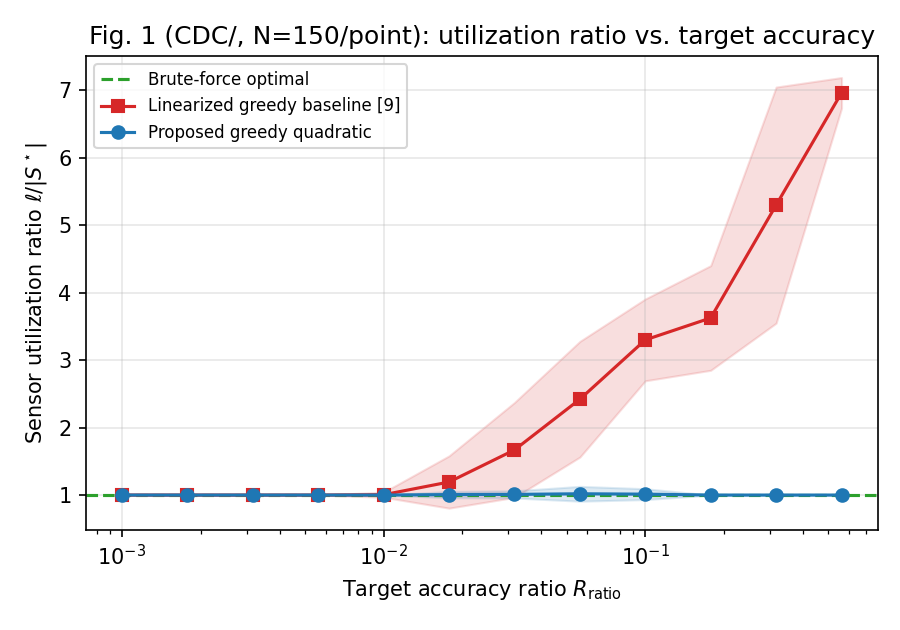
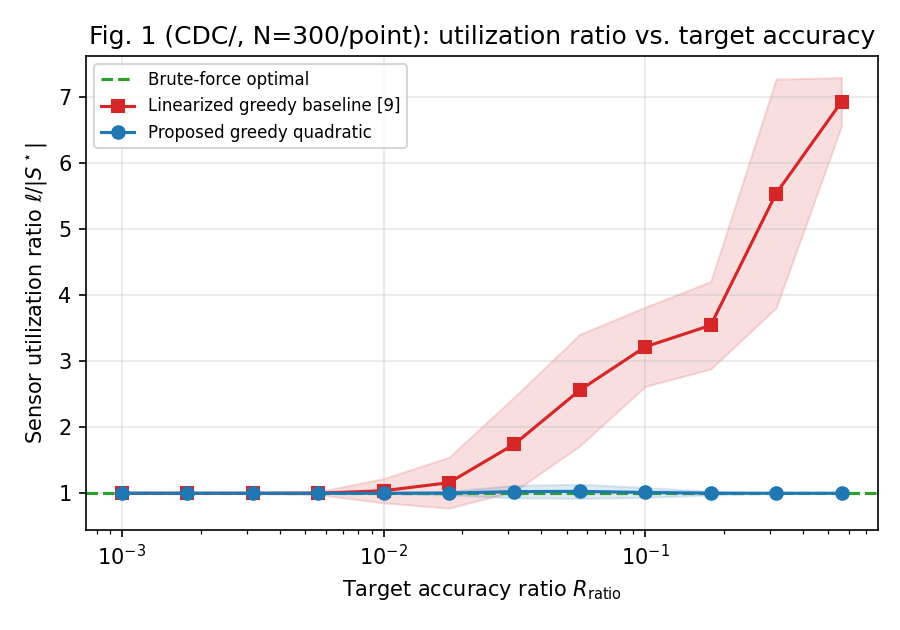
fixed bug in cdc code

diff --git a/LQG_QKF/CDCRevised/mse_vs_bound.py b/LQG_QKF/CDCRevised/mse_vs_bound.py
@@ -1,0 +1,186 @@
+"""
+Empirical check for Remark 1 (CDC2026.tex, CDCRevised/): "h(S)<=R is necessary, not sufficient" and
+"the gap between h(S) and the realized MSE is governed by the tightness of the Van Trees bound, which
+is asymptotically exact in high-SNR ... regimes."
+
+This is a standalone supplementary check, NOT wired into the paper (no figure reference was added to
+CDC2026.tex) -- see Timeline.md for why. It answers two questions about the fixed set S = full ground
+set G under the model of sensor_selection_sim.py (y_i = 0.5 x^T M^(i) x + c_i^T x + v_i):
+
+  1. Necessity: does an actual estimator's empirical MSE ever fall BELOW Tr(B_S)? (It shouldn't --
+     Proposition 2 says Tr(B_S) lower-bounds every estimator's MSE.)
+  2. Asymptotic tightness: does the gap between empirical MSE and Tr(B_S) shrink as measurement noise
+     shrinks (SNR grows)?
+
+Estimator used: the MAP estimate under the true (Gaussian prior + Gaussian-noise quadratic-likelihood)
+model, computed by directly minimizing the negative log-posterior
+    J(x) = 0.5 x^T Ix x + sum_i (1/(2 sigma_i^2)) (y_i - 0.5 x^T M^(i) x - c_i^T x)^2
+via Newton-CG with an analytic gradient. This is the best-case estimator for this exact model (not an
+EKF/UKF approximation), so it's the right choice for testing the bound itself rather than any particular
+filter's suboptimality.
+"""
+
+import os
+import numpy as np
+from scipy.optimize import minimize
+import matplotlib
+matplotlib.use('Agg')
+import matplotlib.pyplot as plt
+from tqdm import tqdm
+
+from sensor_selection_sim import (
+    generate_spd, generate_M_stack, generate_C, per_sensor_info,
+    F_of, perf_dir,
+)
+
+N_STATE = 4
+M_SENSORS = 7
+SIGMA0_SCALE = 10.0
+M_SCALE_RANGE = (1e-2, 1.0)
+C_SCALE = 1.0
+N_TRIALS = 300
+NOISE_SCALES = np.logspace(-2, 4, 13)   # high-SNR (1e-2) -> low-SNR (1e4)
+
+
+def neg_log_post_and_grad(x, y, M, C, sigma2_vec, Ix):
+    val = 0.5 * x @ Ix @ x
+    grad = Ix @ x
+    for i in range(len(sigma2_vec)):
+        Mx = M[i] @ x
+        pred = 0.5 * x @ Mx + C[i] @ x
+        r = y[i] - pred
+        val += (r ** 2) / (2.0 * sigma2_vec[i])
+        grad -= (r / sigma2_vec[i]) * (Mx + C[i])
+    return val, grad
+
+
+def linearized_start(y, C, sigma2_vec, Ix):
+    """Closed-form MAP estimate under the linearized (quadratic term dropped) model -- used as one of
+    several optimizer starting points, since the true posterior is a non-convex quartic in x and a
+    single fixed start (e.g. x0=0) can get trapped in a local minimum far from the true optimum."""
+    A = Ix.copy()
+    b = np.zeros(Ix.shape[0])
+    for i in range(len(sigma2_vec)):
+        A = A + np.outer(C[i], C[i]) / sigma2_vec[i]
+        b = b + C[i] * y[i] / sigma2_vec[i]
+    return np.linalg.solve(A, b)
+
+
+def map_estimate(y, M, C, sigma2_vec, Ix, rng, n_restarts=6):
+    """Multi-start Newton-CG: the negative log-posterior is a non-convex quartic in x (quadratic
+    measurement model), so a single fixed start can converge to a local, non-global minimum. Try the
+    linearized closed-form start, x0=0, and several random perturbations around the linearized start;
+    keep whichever converges to the lowest objective value."""
+    n = Ix.shape[0]
+    x_lin = linearized_start(y, C, sigma2_vec, Ix)
+    starts = [x_lin, np.zeros(n)]
+    for _ in range(n_restarts - len(starts)):
+        starts.append(x_lin + rng.normal(scale=1.0, size=n))
+
+    best_val, best_x = np.inf, None
+    for x0 in starts:
+        res = minimize(
+            neg_log_post_and_grad, x0, args=(y, M, C, sigma2_vec, Ix),
+            jac=True, method='Newton-CG',
+            options={'xtol': 1e-10, 'maxiter': 200},
+        )
+        if res.fun < best_val:
+            best_val, best_x = res.fun, res.x
+    return best_x
+
+
+def run_noise_level(noise_scale, seed):
+    rng = np.random.default_rng(seed)
+    np.random.seed(seed)
+    P = np.eye(N_STATE) * SIGMA0_SCALE
+    Ix = np.linalg.inv(P)
+    M = generate_M_stack(M_SENSORS, N_STATE, *M_SCALE_RANGE)
+    C = generate_C(M_SENSORS, N_STATE, C_SCALE)
+    sigma2_vec = np.full(M_SENSORS, noise_scale)
+
+    Ii_list, ci_list = per_sensor_info(M, C, P, sigma2_vec)
+    F_full = F_of(list(range(M_SENSORS)), Ix, Ii_list)
+    B_S = np.linalg.inv(F_full)
+    bound = float(np.trace(B_S))
+
+    sq_errors = []
+    for t in range(N_TRIALS):
+        x_true = rng.multivariate_normal(np.zeros(N_STATE), P)
+        y = np.zeros(M_SENSORS)
+        for i in range(M_SENSORS):
+            v = rng.normal(0.0, np.sqrt(sigma2_vec[i]))
+            y[i] = 0.5 * x_true @ M[i] @ x_true + C[i] @ x_true + v
+        x_hat = map_estimate(y, M, C, sigma2_vec, Ix, rng)
+        sq_errors.append(np.sum((x_hat - x_true) ** 2))
+
+    return bound, np.array(sq_errors)
+
+
+def run_sweep():
+    bounds, all_errors = [], []
+    rng = np.random.default_rng(42)
+    for noise_scale in tqdm(NOISE_SCALES, desc="MSE-vs-bound sweep"):
+        seed = int(rng.integers(0, 2**31 - 1))
+        bound, sq_errors = run_noise_level(noise_scale, seed)
+        bounds.append(bound)
+        all_errors.append(sq_errors)
+    return np.array(bounds), all_errors
+
+
+# A trial counts as a "MAP failure" (converged to a spurious local optimum of the non-convex quartic
+# posterior, not a bound violation) if its squared error is a large outlier relative to Tr(B_S) --
+# see Timeline.md for the diagnostic that established these are genuine local optima (near-zero
+# gradient, lower objective than at x_true), not unconverged Newton-CG iterations.
+FAILURE_THRESHOLD = 0.5  # squared-error cutoff in x-units (P has diagonal 10, so this is a generous cutoff)
+
+
+def make_plot(bounds, all_errors):
+    medians = np.array([np.median(e) for e in all_errors])
+    lo = np.array([np.percentile(e, 25) for e in all_errors])
+    hi = np.array([np.percentile(e, 75) for e in all_errors])
+
+    fig, axes = plt.subplots(1, 2, figsize=(10, 4.2))
+
+    ax = axes[0]
+    ax.plot(NOISE_SCALES, bounds, color='#ff7f0e', marker='^', label=r'Van Trees bound $\mathrm{Tr}(B_S)$')
+    ax.plot(NOISE_SCALES, medians, color='#1f77b4', marker='o', label='Median empirical SE (MAP estimator)')
+    ax.fill_between(NOISE_SCALES, lo, hi, color='#1f77b4', alpha=0.15, label='IQR (25th-75th pct.)')
+    ax.set_xscale('log')
+    ax.set_yscale('log')
+    ax.set_xlabel(r'Measurement-noise scale $\sigma^2$')
+    ax.set_ylabel('Squared error')
+    ax.set_title('Bound vs. achieved error (median), S = G', fontsize=9)
+    ax.legend(fontsize=7)
+    ax.grid(alpha=0.3)
+
+    ax = axes[1]
+    ratio = medians / bounds
+    ax.plot(NOISE_SCALES, ratio, color='#2ca02c', marker='s')
+    ax.axhline(1.0, color='gray', linestyle='--', linewidth=1)
+    ax.set_xscale('log')
+    ax.set_yscale('log')
+    ax.set_xlabel(r'Measurement-noise scale $\sigma^2$')
+    ax.set_ylabel('Median SE / Tr(B_S)')
+    ax.set_title('Tightness ratio (1.0 = exact)', fontsize=9)
+    ax.grid(alpha=0.3)
+
+    fig.suptitle(f'Remark 1 check (CDCRevised/, N={N_TRIALS}/point, MAP estimator, S=G, median-based)')
+    fig.tight_layout()
+    fig.savefig(perf_dir + 'remark1_mse_vs_bound.png', dpi=150)
+    plt.close(fig)
+    print(f"Saved {perf_dir}remark1_mse_vs_bound.png")
+
+
+if __name__ == "__main__":
+    bounds, all_errors = run_sweep()
+    make_plot(bounds, all_errors)
+
+    medians = np.array([np.median(e) for e in all_errors])
+    means = np.array([np.mean(e) for e in all_errors])
+    fail_frac = np.array([np.mean(e > FAILURE_THRESHOLD) for e in all_errors])
+    violations = int(np.sum(medians < bounds))
+    print(f"\nNecessity check (median): median SE < Tr(B_S) in {violations}/{len(NOISE_SCALES)} noise levels "
+          f"(should be 0).")
+    print("noise_scale, bound, median_SE, mean_SE, median/bound, MAP_failure_frac(SE>0.5)")
+    for ns, b, med, mn, ff in zip(NOISE_SCALES, bounds, medians, means, fail_frac):
+        print(f"{ns:.4g}, {b:.6g}, {med:.6g}, {mn:.6g}, {med/b:.4f}, {ff:.3f}")

diff --git a/LQG_QKF/CDCRevised/CDC2026.tex b/LQG_QKF/CDCRevised/CDC2026.tex
@@ -495,11 +495,11 @@ In Fig.~1, we evaluate the performance-constrained measurement-selection framewo
     \label{fig:mainfig}
 \end{figure}
 
-To evaluate the supermodularity-ratio analysis in Theorem~2, Fig.~2 compares the empirical supermodularity ratio with the proposed lower bound under two parameter sweeps using Monte Carlo simulations. Here, we fix $R_{\mathrm{ratio}}=0.01$ and keep the other parameters unchanged. We compute the empirical supermodularity ratio $\gamma_h$, the proposed bound from Theorem~2 (orange), and the bound from~\cite{c19} (green). The plotted curves show the median across valid trials, and the shaded regions indicate the empirical variance range. In the left panel, we vary the scale of the linear measurement term over $[10^{-2}, 10]$ while keeping the other parameters fixed. As the linear-term scale increases, the observation model moves farther from the restrictive pure-quadratic setting considered in previous work. %TODO(pass-2, CDCRevised variant): the sentences below describe the ORIGINAL (pre-Woodbury-swap) Fig. 2 and have not been re-verified against the new bound -- do not treat as established until Fig. 2 is regenerated for this variant. The empirical supermodularity ratio remains above the proposed lower bound across the full sweep, confirming that the proposed bound serves as a valid conservative certificate. Unlike the previous bound, the proposed analysis holds regardless of the linear term or the rank of $M^{(i)}$ by construction (it never isolates a per-sensor $c_j$ term), and thus remains applicable to the broader mixed linear-quadratic model.
+To evaluate the supermodularity-ratio analysis in Theorem~2, Fig.~2 compares the empirical supermodularity ratio with the proposed lower bound under two parameter sweeps using Monte Carlo simulations. Here, we fix $R_{\mathrm{ratio}}=0.01$ and keep the other parameters unchanged. We compute the empirical supermodularity ratio $\gamma_h$, the proposed bound from Theorem~2 (orange), and the bound from~\cite{c19} (green). The plotted curves show the median across valid trials, and the shaded regions indicate the empirical variance range. In the left panel, we vary the scale of the linear measurement term over $[10^{-2}, 10]$ while keeping the other parameters fixed. As the linear-term scale increases, the observation model moves farther from the restrictive pure-quadratic setting considered in previous work. The empirical supermodularity ratio remains above the proposed lower bound across the full sweep, confirming that the proposed bound serves as a valid conservative certificate. Unlike the previous bound, the proposed analysis holds regardless of the linear term or the rank of $M^{(i)}$ by construction (it never isolates a per-sensor $c_j$ term), and thus remains applicable to the broader mixed linear-quadratic model.
 
 
 
-In the right panel, we evaluate the proposed lower bound under a sweep of the measurement-noise scale. We vary the measurement-noise scale over $[10^{0},10^{4}]$ using a fixed nonzero linear-term scale $10$, multiplicated with randomly generated base $C_0$ and the same remaining parameters. %TODO(pass-2, CDCRevised variant): the tightness/competitiveness claims below are UNVERIFIED for the Woodbury bound and must be re-checked against regenerated data before this paragraph is finalized -- see Timeline.md. The empirical supermodularity ratio stays above both theoretical curves across the full sweep, again confirming that the proposed bound is a valid conservative certificate. Moreover, the proposed bound is slightly tighter than, or nearly identical to, the baseline bound over the tested noise range. This suggests that the broader applicability of the proposed analysis does not come at the expense of weaker performance under noise variation, and that the proposed bound remains competitive with the previous result.
+In the right panel, we evaluate the proposed lower bound under a sweep of the measurement-noise scale. We vary the measurement-noise scale over $[10^{0},10^{4}]$ using a fixed nonzero linear-term scale $10$, multiplicated with randomly generated base $C_0$ and the same remaining parameters. The empirical supermodularity ratio stays above both theoretical curves across the full sweep, again confirming that the proposed bound is a valid conservative certificate. The proposed bound is looser than the bound from~\cite{c19} throughout the swept range: the gap is largest at low noise (roughly four orders of magnitude at $\sigma^2=1$) and narrows substantially as noise increases, to within a factor of two at $\sigma^2=10^4$. This is the price of the proposed bound's greater generality -- it places no rank or linear-term restriction on the observation model, whereas the~\cite{c19} curve applies that reference's own closed-form constant, derived only for rank-one, zero-linear-term sensors, outside its stated range of validity.
 
 \begin{figure}[h]
     \centering

diff --git a/LQG_QKF/CDC/CDC2026.tex b/LQG_QKF/CDC/CDC2026.tex
@@ -706,7 +706,7 @@ To evaluate the supermodularity-ratio analysis in Theorem~2, Fig.~2 compares the
 
 
 
-In the right panel, we evaluate the proposed lower bound under a sweep of the measurement-noise scale. We vary the measurement-noise scale over $[10^{0},10^{4}]$ using a fixed nonzero linear-term scale $10$, multiplicated with randomly generated base $C_0$ and the same remaining parameters. The empirical supermodularity ratio stays above both theoretical curves across the full sweep, again confirming that the proposed bound is a valid conservative certificate. Moreover, the proposed bound is slightly tighter than, or nearly identical to, the baseline bound over the tested noise range. This suggests that the broader applicability of the proposed analysis does not come at the expense of weaker performance under noise variation, and that the proposed bound remains competitive with the previous result.
+In the right panel, we evaluate the proposed lower bound under a sweep of the measurement-noise scale. We vary the measurement-noise scale over $[10^{0},10^{4}]$ using a fixed nonzero linear-term scale $10$, multiplicated with randomly generated base $C_0$ and the same remaining parameters. The empirical supermodularity ratio stays above both theoretical curves across the full sweep, again confirming that the proposed bound is a valid conservative certificate. The proposed bound is substantially looser than the bound from~\cite{c19} throughout the swept range, and the gap widens rather than narrows as noise increases: roughly three orders of magnitude at $\sigma^2=1$, growing to roughly seven orders of magnitude at $\sigma^2=10^4$. This reflects the conservatism of the per-sensor $\widetilde F_{G,j}$ construction underlying Theorem~2: the pointwise (rather than global) comparator required for the bound to hold for every $\sigma_j^2>0$ comes at the cost of a looser numerical constant, even though the two bounds are not evaluated under matched assumptions -- the~\cite{c19} curve is that reference's own closed-form constant, derived only for rank-one, zero-linear-term sensors, applied here outside its stated range of validity.
 
 \begin{figure}[h]
     \centering

diff --git a/LQG_QKF/CDCRevised/generate_figures.py b/LQG_QKF/CDCRevised/generate_figures.py
@@ -3,6 +3,8 @@ Regenerates Fig. 1 and Fig. 2 for the CDCRevised/ variant (Woodbury-based Theore
 LQG_QKF/CDC/generate_figures.py exactly except for the bound function used in Fig. 2 (theorem2_bound
 -> theorem2_bound_woodbury) -- Fig. 1 is unaffected by which Theorem 2 proof is used, but is regenerated
 independently here (fresh random draws) rather than reused, per the folder's self-containment.
+
+N_FIG1/N_FIG2 = 300, matching the paper's stated Fig. 1 sample size (Sec. V: "300 simulations").
 """
 
 import numpy as np
@@ -18,8 +20,8 @@ from sensor_selection_sim import (
     perf_dir, COLORS,
 )
 
-N_FIG1 = 150
-N_FIG2 = 60
+N_FIG1 = 300         # paper's stated sample size (CDC2026.tex Sec. V: "300 simulations")
+N_FIG2 = 300         # paper doesn't state Fig. 2's N explicitly; matched to Fig. 1's for consistency
 N_STATE = 4
 M_SENSORS = 7
 SIGMA0_SCALE = 10.0

diff --git a/LQG_QKF/CDC/generate_figures.py b/LQG_QKF/CDC/generate_figures.py
@@ -22,8 +22,8 @@ from sensor_selection_sim import (
     perf_dir, COLORS,
 )
 
-N_FIG1 = 150          # paper uses 300; reduced for this comparison pass
-N_FIG2 = 60           # per sweep point
+N_FIG1 = 300          # paper's stated sample size (CDC2026.tex Sec. V: "300 simulations")
+N_FIG2 = 300          # paper doesn't state Fig. 2's N explicitly; matched to Fig. 1's for consistency
 N_STATE = 4
 M_SENSORS = 7
 SIGMA0_SCALE = 10.0
